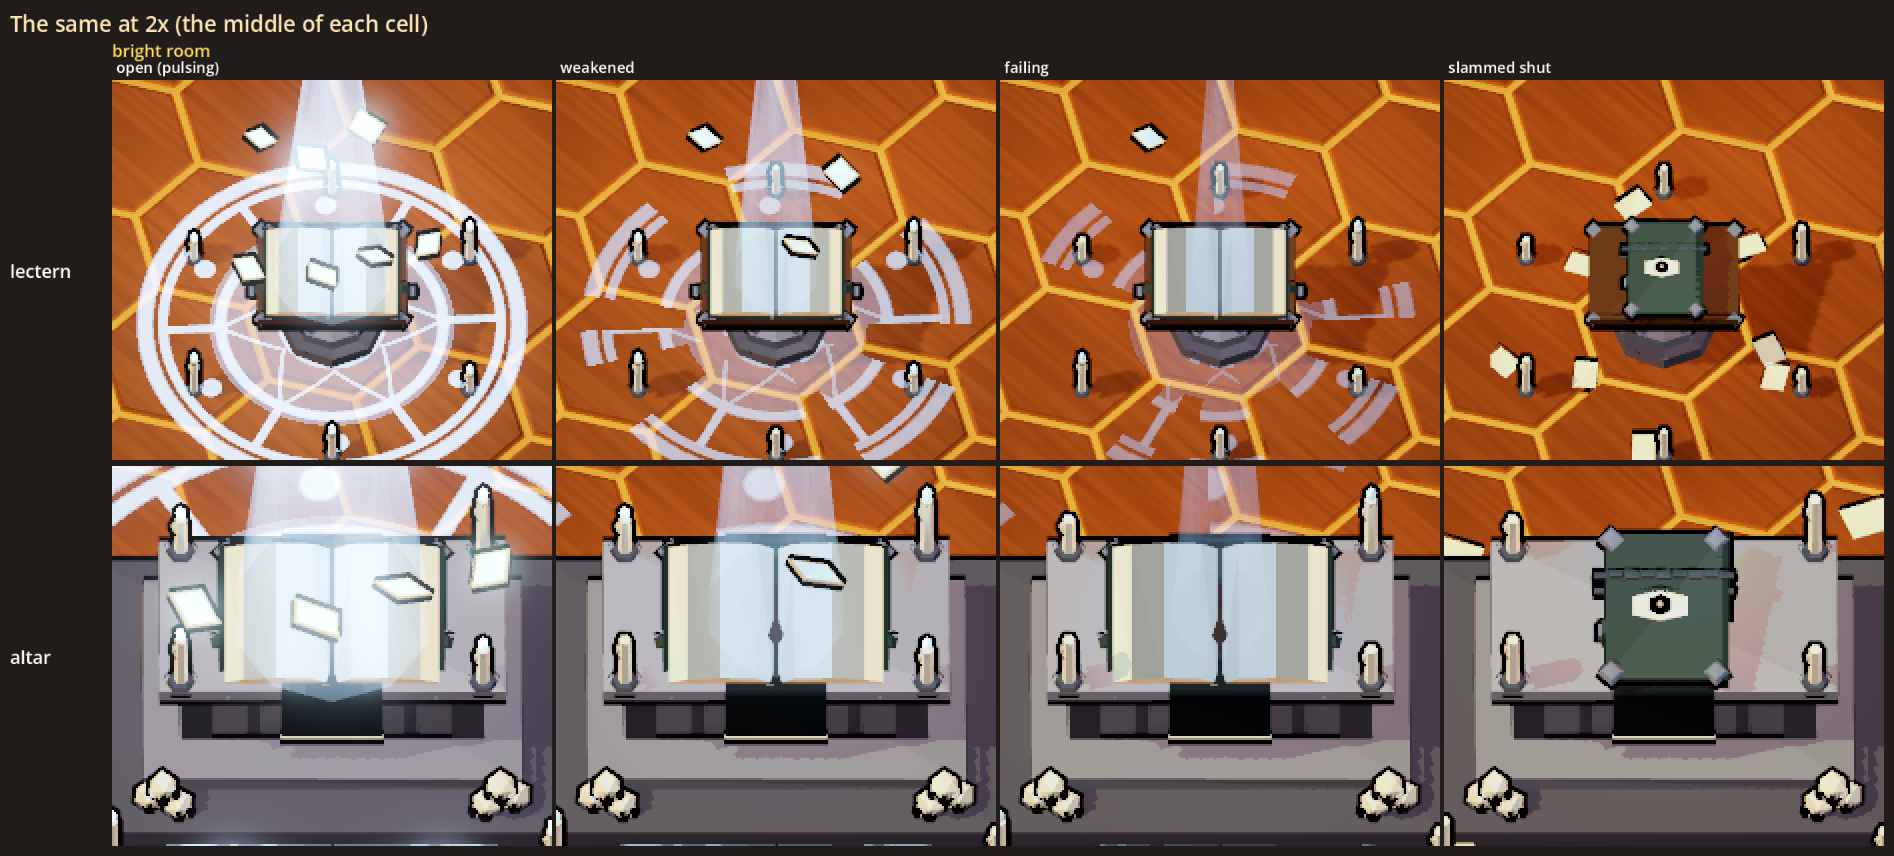
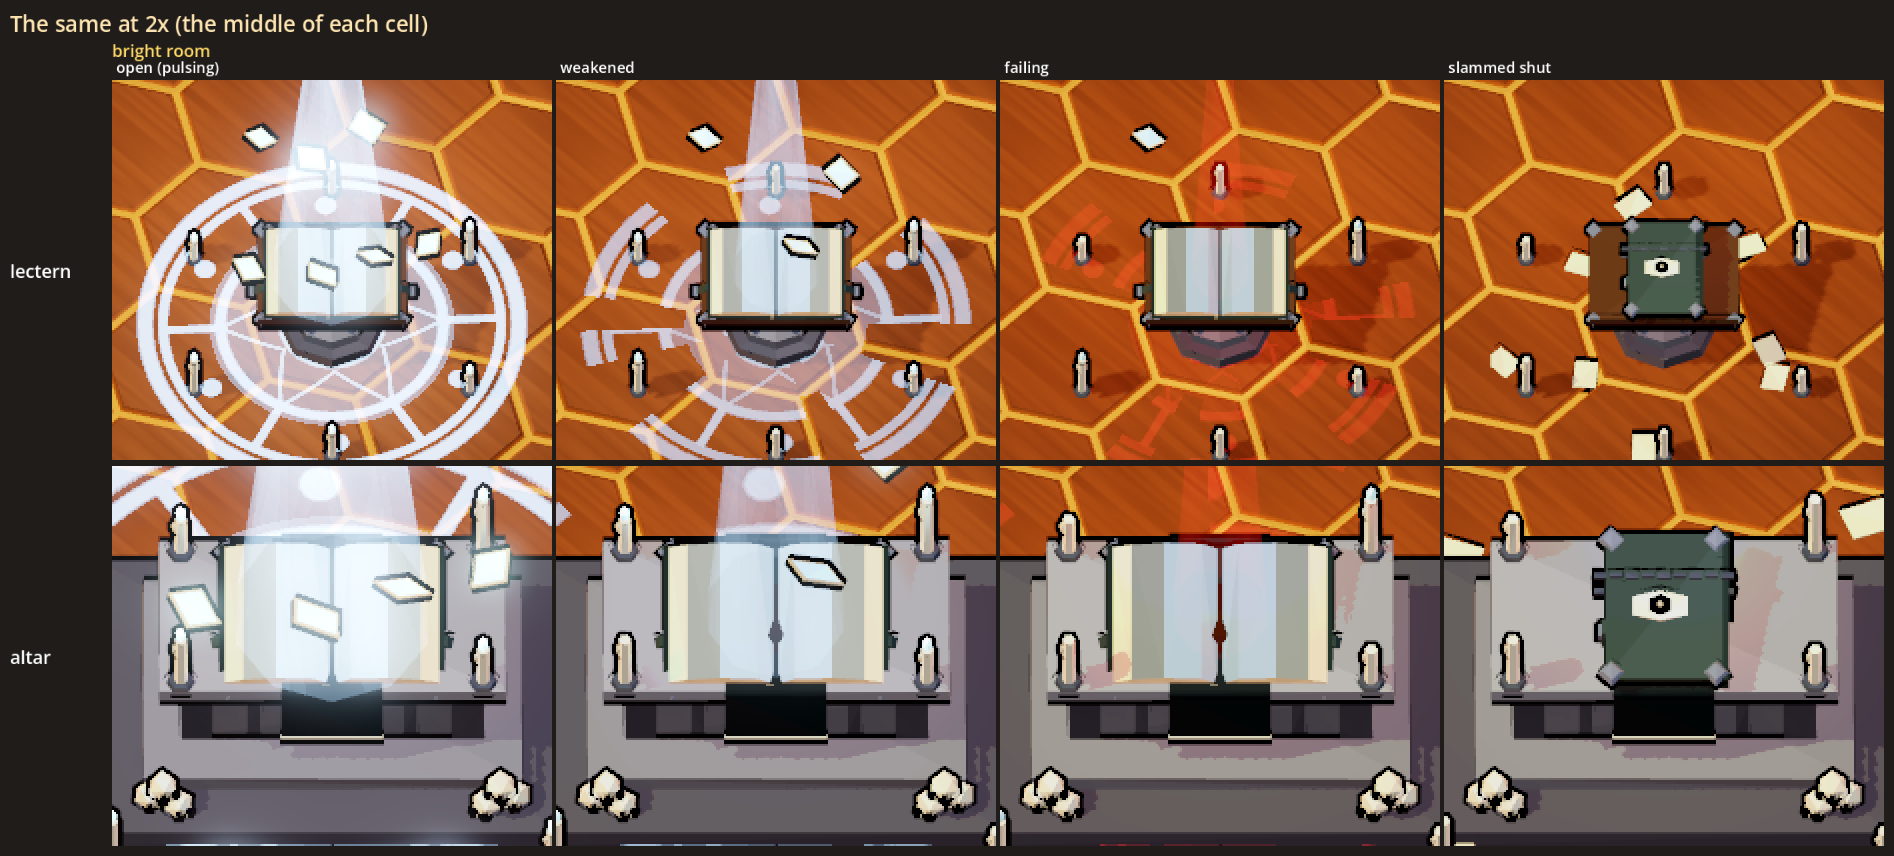
Necro look: a failing grimoire's flicker tends red (the user's idea)

diff --git a/docs/design/necro-look.md b/docs/design/necro-look.md
@@ -28,6 +28,8 @@ on eyes, hands, flames and pages, and the rim (the faceted fresnel) on the raise
   1.4). The states are **open**, **weakened**, **failing** and **shut**: the book stays whole and open until it is shut,
   and the column of light thins and stutters, the circle breaks up, the circling pages and the candles go out and the
   light drops as it weakens. The torn and burnt books are gone. (The sections below still describe the first version.)
+- **A failing book's flicker tends red**: "Failing - maybe we have the flicker tend red?" Failing, its column, circle and
+  light lean toward red (`GrimoireModel.FAIL_RED`), most in the stutter's dips.
 
 ## What the user is choosing
 
